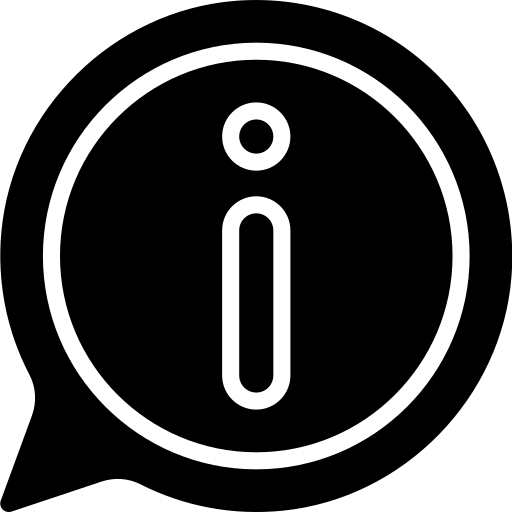
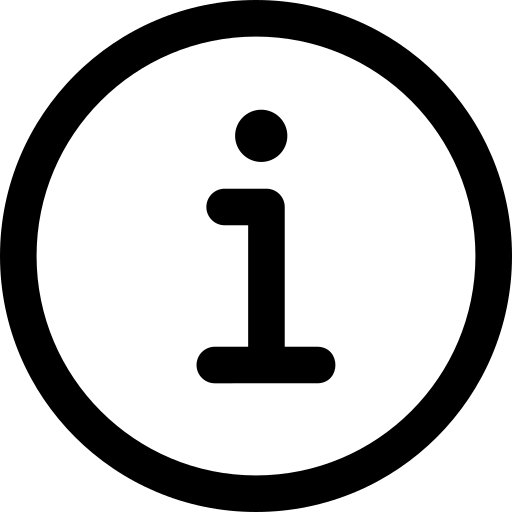
General changes to styling

diff --git a/html/water.html b/html/water.html
@@ -47,7 +47,7 @@
         <p>Cada morador ou proprietário de imóvel no Villas deve solicitar diretamente a esta empresa a instalação de hidrômetro e assinar seu contrato particular (contato na página inicial).</p>
         <p>Abaixo pode ser consultado o contrato entre a FM Construtora e a AMOVA, que tem uma pequena participação nas faturas pagas.</p>
         <p>Por força de contrato a água é submetida a análise de qualidade a cada 6 meses, e o resultado dos testes atualizado é publicado aqui nesta página.</p>
-        <p style="color: darkblue;">Para conferir a sua fatura, abaixo há uma calculadora que dá o valor a ser pago de acordo com o volume de água consumido no mês, obedecendo à tabela de preços por faixa de consumo, que pode ser encontrada na página da <a href="https://www.fmconstrutorabahia.com.br/villas">FM Construtora</a></p>
+        <p style="color: darkblue;">Para conferir a sua fatura, abaixo há uma calculadora que dá o valor a ser pago de acordo com o volume de água consumido no mês, obedecendo à tabela de preços por faixa de consumo, que pode ser encontrada na página da <a href="https://www.fmconstrutorabahia.com.br/villas">FM Construtora</a>.</p>
 
         <div id="water-calculator-box">
         <label for="aguaInput">Calculadora de água:</label>
@@ -57,7 +57,7 @@
 
         <h3>Documentos</h3>
         <ul>
-          <li><a href="../assets/Exame agua.pdf">Exame água</a></li>
+          <li><a href="https://docs.google.com/document/d/1gP2Mc-bcnX84DkH5AZE6IeE4krgckrAeNhjVxekVI8Y/edit?usp=sharing">Exame água</a></li>
           <li><a href="../assets/TERMO DE ACORDO DA AGUA.PDF">Termo de acordo</a></li>
         </ul>
     </div>

diff --git a/html/board.html b/html/board.html
@@ -38,7 +38,8 @@
         <card-who nome="Cláudia Caliman" cargo="2ª Secretária" photo = "../img/pessoas/Claudia.jpg"></card-who>       
         <card-who nome="Jardel Gores" cargo="1° Tesoureiro" photo="../img/pessoas/Jardel.jpeg"></card-who>    
         <card-who nome="Elizabeth Kasparian" cargo="2ª Tesoureira" photo = "../img/pessoas/Beth.jpg"></card-who>
-        <card-who nome="Eli Lombardi" cargo="Conselheiro fiscal" photo = "../img/pessoas/Eli.png"></card-who>
+        <card-who nome="Dirce Stanger" cargo="1º Conselheiro Fiscal" photo = "../img/pessoas/Dirce.jpg"></card-who>
+        <card-who nome="Eli Lombardi" cargo="Conselheiro Fiscal Suplente" photo = "../img/pessoas/Eli.jpg"></card-who>
     </div>
     <div>&nbsp;</div>
     </div>

diff --git a/css/boardpage.css b/css/boardpage.css
@@ -4,9 +4,9 @@
 }
 
 body{
-    background-image: linear-gradient(45deg, #A6CF4a 10%,transparent 10%,transparent 90%,#A6CF4a 90%),linear-gradient(135deg, transparent 40%, #A6CF4a80 40%, #A6CF4a80 60%, transparent 0),linear-gradient(45deg, transparent 40%, #A6CF4a 40%, #A6CF4a 60%, transparent 0);
+    /* background-image: linear-gradient(45deg, #A6CF4a 10%,transparent 10%,transparent 90%,#A6CF4a 90%),linear-gradient(135deg, transparent 40%, #A6CF4a80 40%, #A6CF4a80 60%, transparent 0),linear-gradient(45deg, transparent 40%, #A6CF4a 40%, #A6CF4a 60%, transparent 0); */
     background-size: 4em 4em;
-    background-color: #ffffff;
+    background-color: #A6CF4A;
     opacity: 0.15;
     margin: 0;
     padding: 0;

diff --git a/js/piccards.js b/js/piccards.js
@@ -67,6 +67,7 @@ class NewsCards extends HTMLElement{
                     cursor: pointer;
                     box-shadow: 5px 5px 8px 0px rgba(0, 0, 0, 0.575);
                     transition-duration: 0.2s;
+                    // text-shadow: 0.2px 0px 0.2px white,0px 0.2px 0.2px white, -0.2px 0px 0.2px white, 0px -0.2px 0.2px white;
                 }
 
                 .card img{

diff --git a/css/global.css b/css/global.css
@@ -26,8 +26,9 @@ footer{
     justify-content: space-between;
     padding: 1rem;
     background-image:  radial-gradient(#a6cf4a 2px, transparent 2px), radial-gradient(#a6cf4a 2px, #e5e5f7 2px);
-    background-size: 80px 80px;
+    background-size: 90px 90px;
     background-position: 0 0,40px 40px;
+    height: 20vh;
 }
 
 .separator-line{
